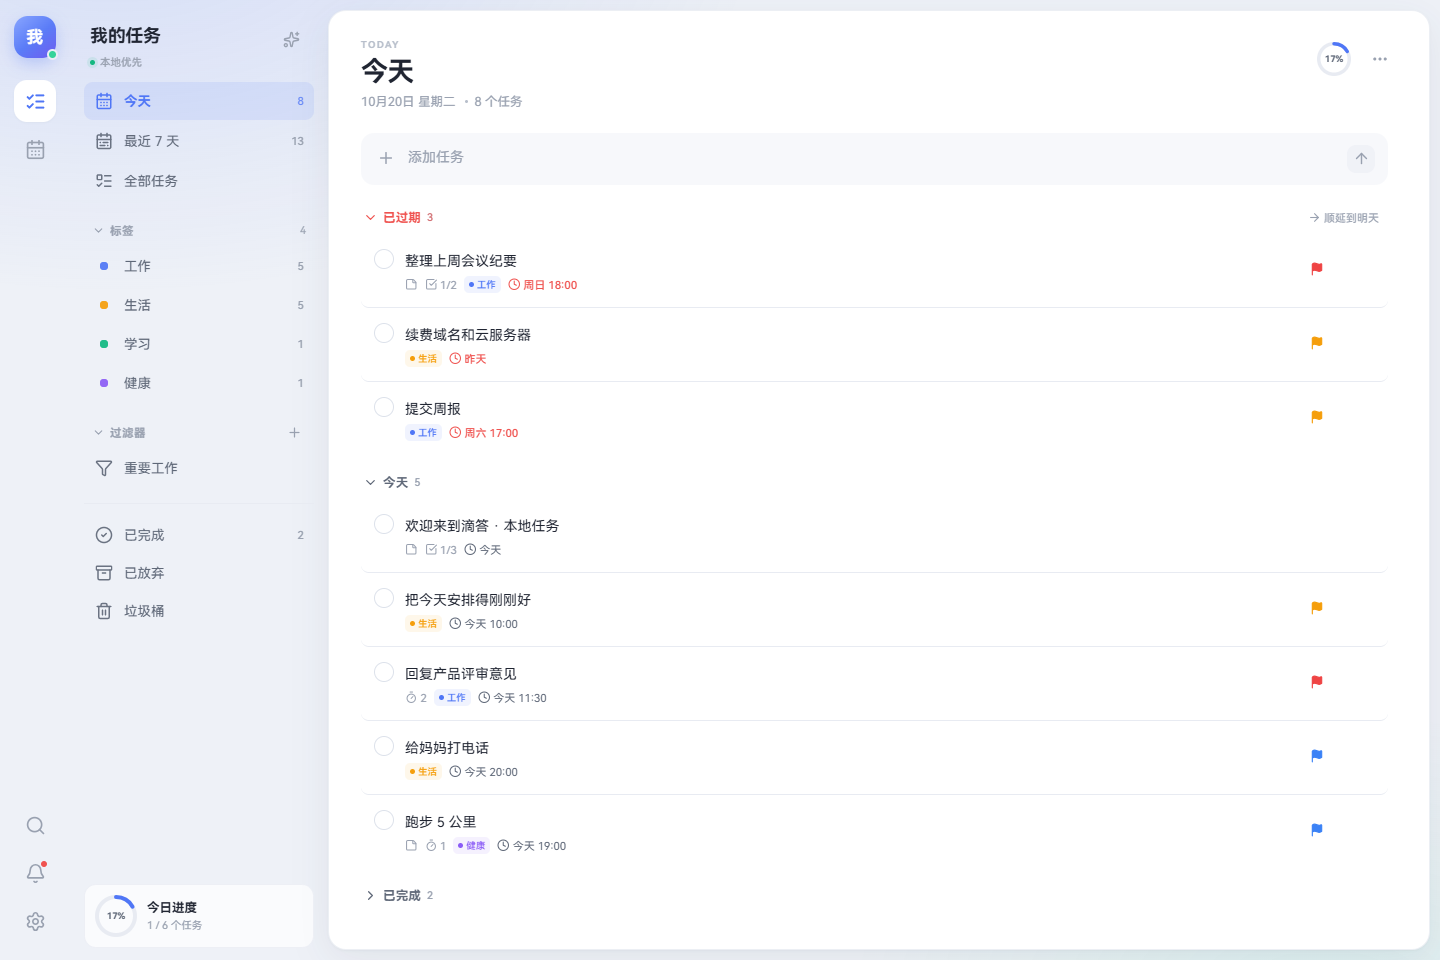
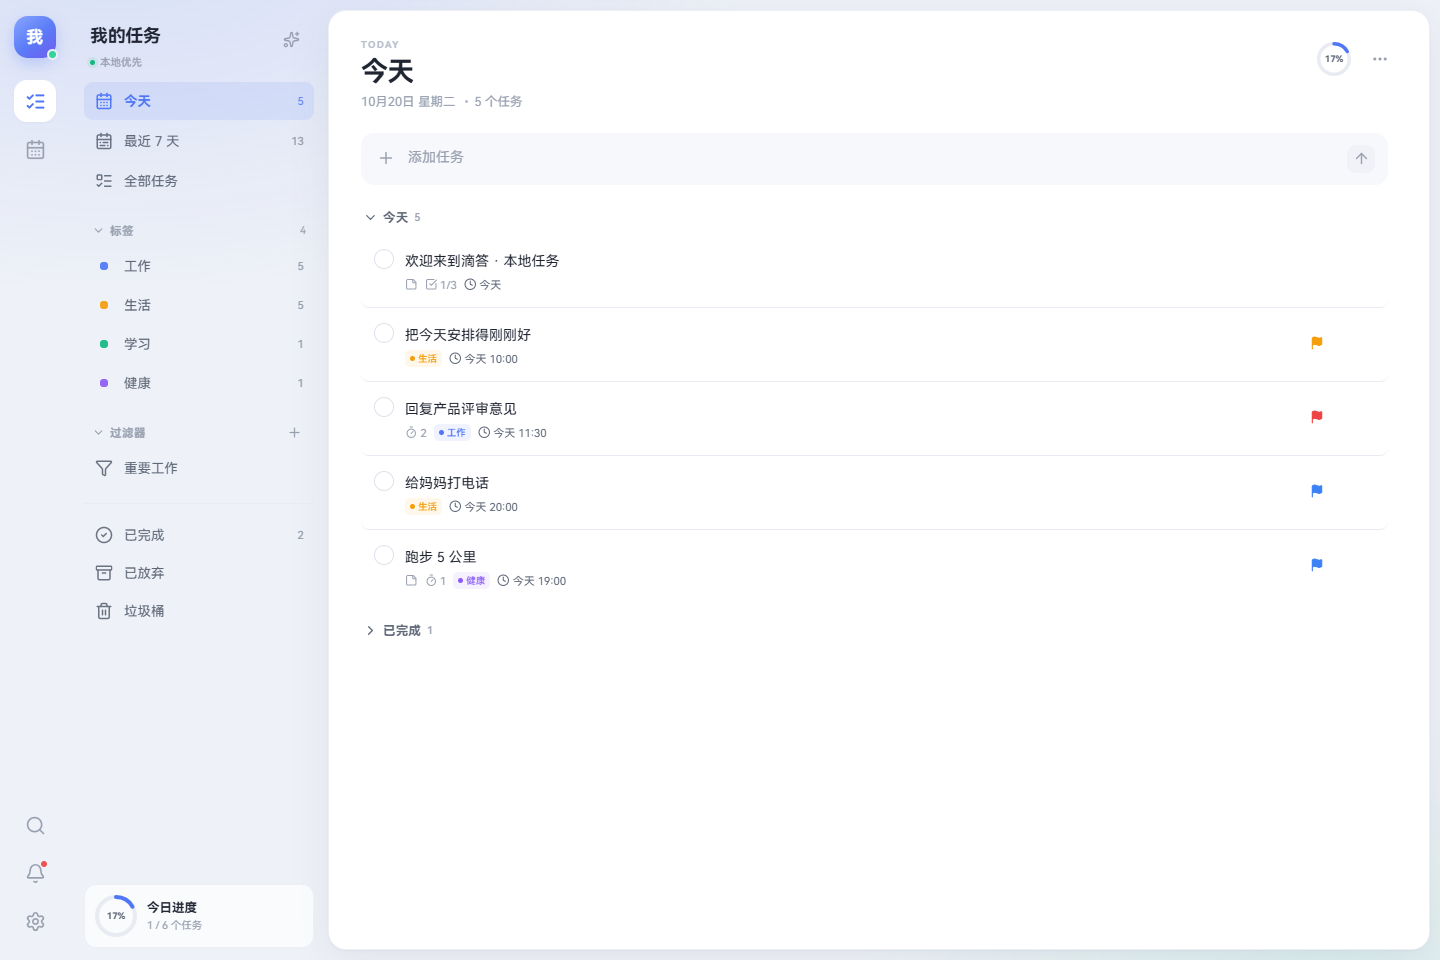
feat: today-only view and calendar time parsing
Today now shows only tasks scheduled for today; overdue and undated items no longer appear. The calendar side input parses natural-language times and dates, and previews the parsed title and schedule before adding.

diff --git a/src/views/CalendarView.tsx b/src/views/CalendarView.tsx
@@ -5,7 +5,8 @@ import { ChevronLeft, ChevronRight, Plus, CalendarDays, Check } from 'lucide-rea
 import { motion } from 'framer-motion';
 import { useApp } from '../store';
 import type { Task } from '../types';
-import { dateKey, dueMinutes, monthGrid, monthLabel, parseDateKey, todayKey, weekDates, WEEKDAYS } from '../lib/date';
+import { dateKey, dueMinutes, formatDue, monthGrid, monthLabel, parseDateKey, todayKey, weekDates, WEEKDAYS } from '../lib/date';
+import { parseQuickAdd } from '../lib/parse';
 import { useIsMobile } from '../lib/useMediaQuery';
 import { Checkbox, EmptyState, IconButton, Segmented, cx } from '../components/ui';
 
@@ -22,6 +23,10 @@ export function CalendarView({ onOpenTask }: { onOpenTask: (id: string) => void 
   const [quickTitle, setQuickTitle] = useState('');
   const [dragging, setDragging] = useState<string | null>(null);
   const [dragOverDay, setDragOverDay] = useState<string | null>(null);
+  const quickParsed = useMemo(
+    () => parseQuickAdd(quickTitle, parseDateKey(selectedDay)),
+    [quickTitle, selectedDay],
+  );
 
   const visibleTasks = useMemo(
     () => (state?.tasks || []).filter((t) => !t.deletedAt && t.status !== 'abandoned'),
@@ -93,7 +98,16 @@ export function CalendarView({ onOpenTask }: { onOpenTask: (id: string) => void 
   const addQuick = async () => {
     const title = quickTitle.trim();
     if (!title) return;
-    const task = await createTask({ title, dueAt: selectedDay, allDay: true });
+    const parsed = parseQuickAdd(title, parseDateKey(selectedDay));
+    const dueAt = parsed.dueAt || selectedDay;
+    const task = await createTask({
+      title: parsed.title,
+      dueAt,
+      allDay: parsed.dueAt ? parsed.allDay : true,
+      priority: parsed.priority,
+      tags: parsed.tags,
+      repeatRule: parsed.repeatRule,
+    });
     setQuickTitle('');
     if (task) {
       toast('任务已添加到这一天', 'success');
@@ -253,12 +267,18 @@ export function CalendarView({ onOpenTask }: { onOpenTask: (id: string) => void 
             <input
               value={quickTitle}
               onChange={(event) => setQuickTitle(event.target.value)}
-              placeholder="添加到这一天"
+              placeholder="输入任务或时间，如：下午 3 点 开会"
               onKeyDown={(event) => {
                 if (event.key === 'Enter') addQuick();
               }}
             />
           </div>
+          {quickTitle.trim() && (
+            <div className="calendar-quick-preview">
+              <span>{quickParsed.title}</span>
+              <strong>{formatDue({ dueAt: quickParsed.dueAt || selectedDay, allDay: quickParsed.dueAt ? quickParsed.allDay : true })}</strong>
+            </div>
+          )}
           <div className="calendar-side-list">
             {selectedTasks.length === 0 ? (
               <div className="calendar-side-empty">

diff --git a/src/lib/selectors.ts b/src/lib/selectors.ts
@@ -42,7 +42,7 @@ export function tasksForView(state: AppState, view: View): Task[] {
         (t) =>
           !t.deletedAt &&
           t.status !== 'abandoned' &&
-          ((t.dueAt && t.dueAt.slice(0, 10) <= dateKey()) ||
+          (t.dueAt?.slice(0, 10) === dateKey() ||
             (t.status === 'completed' && t.completedAt?.slice(0, 10) === dateKey())),
       );
     case 'next7': {
@@ -107,7 +107,7 @@ export function computeCounts(state: AppState): TaskCounts {
       counts.completed += 1;
       continue;
     }
-    if (task.dueAt && task.dueAt.slice(0, 10) <= today) counts.today += 1;
+    if (task.dueAt && task.dueAt.slice(0, 10) === today) counts.today += 1;
     if (task.dueAt && task.dueAt.slice(0, 10) <= end) counts.next7 += 1;
     if (task.listId === 'inbox') counts.inbox += 1;
     counts.lists[task.listId] = (counts.lists[task.listId] || 0) + 1;
@@ -134,14 +134,9 @@ export function groupTasks(view: View, tasks: Task[]): Group[] {
   const today = dateKey();
 
   if (view.kind === 'today') {
-    const overdue = open.filter((t) => t.dueAt && t.dueAt.slice(0, 10) < today);
     const todays = open.filter((t) => t.dueAt?.slice(0, 10) === today);
-    const noDate = open.filter((t) => !t.dueAt);
     const groups: Group[] = [];
-    if (overdue.length)
-      groups.push({ key: 'overdue', label: '已过期', tone: 'danger', tasks: overdue, collapsible: true, count: overdue.length });
     groups.push({ key: 'today', label: '今天', tasks: todays, collapsible: true, count: todays.length });
-    if (noDate.length) groups.push({ key: 'nodate', label: '无日期', tone: 'muted', tasks: noDate, collapsible: true, defaultCollapsed: true, count: noDate.length });
     if (completed.length)
       groups.push({ key: 'completed', label: '已完成', tone: 'muted', tasks: completed, collapsible: true, defaultCollapsed: true, count: completed.length });
     return groups;

diff --git a/src/styles.css b/src/styles.css
@@ -1404,6 +1404,9 @@ h1, h2, h3, h4, p { margin: 0; }
 .calendar-side-count { font-size: 10.5px; color: var(--text-3); }
 .calendar-quick { display: flex; align-items: center; gap: 7px; height: 34px; border-radius: 8px; background: var(--panel-2); padding: 0 9px; color: var(--text-3); }
 .calendar-quick input { flex: 1; border: 0; outline: 0; background: transparent; font-size: 11.5px; }
+.calendar-quick-preview { display: flex; align-items: center; justify-content: space-between; gap: 8px; padding: 5px 7px 0; font-size: 10px; color: var(--text-3); }
+.calendar-quick-preview span { min-width: 0; overflow: hidden; text-overflow: ellipsis; white-space: nowrap; }
+.calendar-quick-preview strong { flex: 0 0 auto; color: var(--accent); font-weight: 500; }
 .calendar-side-list { flex: 1; overflow-y: auto; padding: 8px 0; display: flex; flex-direction: column; gap: 1px; }
 .calendar-side-task { display: flex; align-items: flex-start; gap: 8px; padding: 7px 3px; border-radius: 7px; }
 .calendar-side-task:hover { background: var(--hover); }

diff --git a/src/views/TaskView.tsx b/src/views/TaskView.tsx
@@ -377,7 +377,6 @@ export function TaskView({
               { label: '按优先级排序', icon: <PriorityFlag priority={3} />, checked: sortMode === 'priority', onClick: () => setSortMode('priority') },
               { label: '按日期排序', icon: <CalendarRange size={14} />, checked: sortMode === 'due', onClick: () => setSortMode('due') },
               { label: '按名称排序', icon: <ListTodo size={14} />, checked: sortMode === 'title', onClick: () => setSortMode('title') },
-              ...(view.kind === 'today' ? [{ separator: true, label: '' }, { label: '顺延所有过期任务', icon: <ArrowRight size={14} />, onClick: postponeAllOverdue }] : []),
               ...(listForView
                 ? [
                     { separator: true, label: '' },

diff --git a/README.md b/README.md
@@ -118,7 +118,8 @@ npm run desktop
 
 ### 视图
 
-- 今天、最近 7 天、全部任务、已完成、已放弃、垃圾桶
+- 今天只显示当天任务，不混入过期任务
+- 最近 7 天、全部任务、已完成、已放弃、垃圾桶
 - 标签汇总
 - 自定义过滤器（优先级、标签、日期、状态）
 - 全局搜索：任务、标签、操作混合搜索
@@ -127,6 +128,7 @@ npm run desktop
 ### 日历
 
 - 月视图：任务条、今日高亮、右侧当日任务
+- 右侧快速添加支持自然语言时间，例如「下午 3 点 开会」
 - 周视图：全天任务行 + 时间轴
 - 拖拽任务改期
 - 点击日期快速添加
